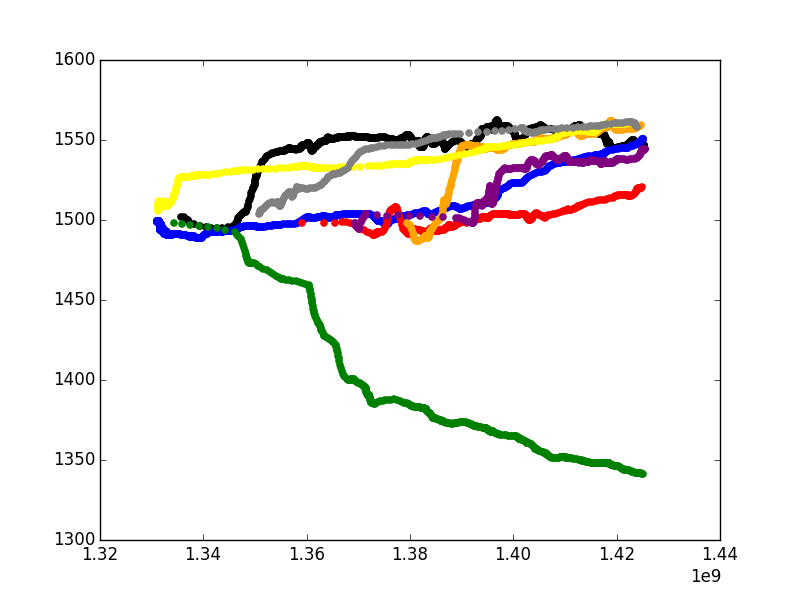
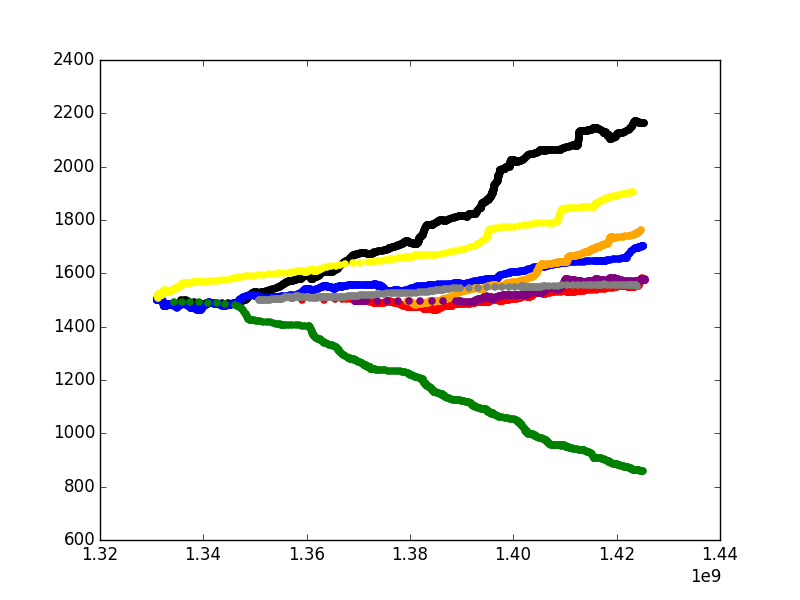
Expert CAU and ELO working; nonexperts still have edge cases that fail

diff --git a/plotting.py b/plotting.py
@@ -3,18 +3,16 @@
 from __future__ import division
 from collections import Counter
 from data_graph import *
-import psycopg2
-import matplotlib.pyplot as plt
-import numpy as np	
-from dateutil.parser import parse
 
-import elo
-import cau
-import time
+import matplotlib.pyplot as plt
+import search_utilities
+import metrics;
+import time;
+import cau;
 
 def plot_elo(cur, conn, user_id, color):
 	# Fetch elo data for the given user.
-	history = elo.elo_history(cur, conn, user_id, parse('2010-1-1'))
+	history = elo.elo_history(cur, conn, user_id)
 	x = []
 	y = []
 
@@ -64,6 +62,42 @@ def plot_cau(cur, conn, user_id, color):
 	# Plot.
 	plt.scatter(x, y, color=color)
 
+def plot_avg_auth(cur, user_ids, color, filename = "output/avg_auth.png"):
+	avg_auth = [0] * len(metrics.percentiles)
+	for user_id in user_ids:
+		user_auth = metrics.auth_for_user(cur, user_id)
+		avg_auth = [sum(x) for x in zip(avg_auth, user_auth)]
+	avg_auth = [total / len(metrics.percentiles) for total in avg_auth]
+	plt.scatter(metrics.percentiles, avg_auth, color = color, label = "Auth")
+	plt.savefig(filename)
+
+def plot_avg_pagerank(cur, user_ids, color, filename = "output/avg_pagerank.png"):
+	avg_rank = [0] * len(metrics.percentiles)
+	for user_id in user_ids:
+		user_rank = metrics.pagerank_for_user(cur, user_id)
+		avg_rank = [sum(x) for x in zip(avg_rank, user_rank)]
+	avg_rank = [total / len(metrics.percentiles) for total in avg_rank]
+	plt.scatter(metrics.percentiles, avg_rank, color = color, label = "PageRank")
+	plt.savefig(filename)
+
+def plot_avg_elo(cur, conn, user_ids, color, filename = "output/avg_elo.png"):
+	avg_elo = [0] * len(metrics.percentiles)
+	for user_id in user_ids:
+ 		user_elo = metrics.elo_for_user(cur, conn, user_id)
+ 		avg_elo = [sum(x) for x in zip(avg_elo, user_elo)]
+ 	avg_elo = [total / len(metrics.percentiles) for total in avg_elo]
+	plt.scatter(metrics.percentiles, avg_elo, color = color, label = "ELO")
+	plt.savefig(filename)
+
+def plot_avg_cau(cur, conn, user_ids, color, filename = "output/avg_cau.png"):
+	avg_cau = [0] * len(metrics.percentiles)
+	for user_id in user_ids:
+ 		user_cau = metrics.cau_for_user(cur, conn, user_id)
+ 		avg_cau = [sum(x) for x in zip(avg_cau, user_cau)]
+ 	avg_cau = [total / len(metrics.percentiles) for total in avg_cau]
+	plt.scatter(metrics.percentiles, avg_cau, color = color, label = "CAU")	
+	plt.savefig(filename)
+
 def plot_distributions():
 	questions = Counter({0: 17663, 1: 3215, 2: 703, 3: 241, 4: 132, 5: 83, 6: 44, 7: 40, 8: 26, 9: 18, 10: 17, 11: 14, 12: 8, 13: 6, 16: 6, 18: 5, 22: 5, 15: 4, 19: 4, 14: 3, 20: 3, 29: 3, 17: 2, 23: 2, 24: 2, 26: 2, 31: 2, 21: 1, 25: 1, 27: 1, 30: 1, 34: 1, 40: 1, 41: 1, 46: 1, 50: 1, 79: 1})
 	plt.xscale('log')
@@ -78,13 +112,45 @@ def plot_distributions():
 	plt.savefig("output/answers_distribution.png")
 
 def main(args):
-	# Plot cau graph for top 8 users by post count.
 	conn, cur = connect("Ben-han", "Ben-han")
-	user_ids = [683, 98, 755, 9550, 39, 699, 8321, 4287]
-	colors = ['black', 'blue', 'red', 'orange', 'yellow', 'green', 'purple', 'gray']
-	for i in range(0, len(user_ids)):
-		plot_elo(cur, conn, user_ids[i], colors[i])
-	plt.savefig("output/elo.png")
+	experts = search_utilities.get_experts()
+	nonexperts = search_utilities.get_nonexperts()
+	
+	print metrics.percentile_normalization(1280, cur)
+
+	# Plot cau graph for top 8 users by post count.
+	# conn, cur = connect("Ben-han", "Ben-han")
+	# user_ids = [683, 98, 755, 9550, 39, 699, 8321, 4287]
+	# colors = ['black', 'blue', 'red', 'orange', 'yellow', 'green', 'purple', 'gray']
+	# for i in range(0, len(user_ids)):
+	# 	plot_cau(cur, conn, user_ids[i], colors[i])
+	# plt.savefig("output/elo.png")
+	# plt.show()
+
+	# Expert plots
+	# print "Plotting average expert Auth"
+	# plot_avg_auth(cur, experts, 'blue', "output/expert_auth.png")
+	# print "Plotting average expert PageRank"
+	# plot_avg_pagerank(cur, experts, 'green', "output/expert_pagerank.png")
+	print "Plotting average expert ELO"
+	plot_avg_elo(cur, conn, experts, 'red', "output/expert_elo.png")
+	print "Plotting average expert Cau"
+	plot_avg_cau(cur, conn, experts, 'purple', "output/expert_cau.png")
+	plt.legend(loc = 4)
+	plt.savefig("output/expert_combined.png")
+	plt.show()
+
+	# Non-expert plots
+	#print "Plotting average nonexpert Auth"
+	#plot_avg_auth(cur, nonexperts, 'blue', "output/nonexpert_auth.png")
+	#print "Plotting average nonexpert PageRank"
+	#plot_avg_pagerank(cur, nonexperts, 'green', "output/nonexpert_pagerank.png")
+	print "Plotting average nonexpert ELO"
+	plot_avg_elo(cur, conn, nonexperts, 'red', "output/nonexpert_elo.png")
+	print "Plotting average nonexpert Cau"
+	plot_avg_cau(cur, conn, nonexperts, 'purple', "output/nonexpert_cau.png")
+	plt.legend(loc = 4)
+	plt.savefig("output/nonexpert_combined.png")
 	plt.show()
 
 if __name__ == '__main__':

diff --git a/metrics.py b/metrics.py
@@ -6,9 +6,13 @@ import psycopg2
 import matplotlib.pyplot as plt
 import numpy as np
 import graph2
+import elo
+import cau
 
 DB_NAME = "stackexchangedb"
 DB_USER = "postgres"
+
+percentiles = [i*0.1 for i in range(0, 11)]
 
 def connect(db=DB_NAME, user=DB_USER):
     """Connect to the specified Postgres database as the specified user."""
@@ -31,7 +35,6 @@ def get_start_time(userID, cur):
 
 def percentile_normalization(userID, cur):
     """returns a vector of end times for percentiles 0, 10, 20,...100. This end time should be used inclusively"""
-    percentiles = [i*0.1 for i in range(0, 11)]
     times = []
     query1 = "select creation_date from post where owner_user_id = %(id)s and (post_type_id = 1 or post_type_id = 2) order by creation_date"
     cur.execute(query1, {'id': userID})
@@ -58,6 +61,12 @@ def total_answers(userID, cur):
         result.append(total_answers_helper(cur, start_time, time, userID))
     return result
 
+def get_cau_at_time(cur, conn, userID, time):
+    return cau.cau(cur, conn, userID, time)
+
+def get_elo_at_time(cur, conn, userID, time):
+    return elo.elo(cur, conn, userID, time)
+
 def get_pagerank_at_time(cur, userID, time):
     graph = graph2.build_graph_before(cur, time)
     ranks = graph2.pagerank(graph)
@@ -67,6 +76,14 @@ def get_auth_at_time(cur, userID, time):
     graph = graph2.build_graph_before(cur, time)
     ranks = graph2.hits(graph)
     return ranks[userID][1]
+
+def cau_for_user(cur, conn, userID):
+    times = percentile_normalization(userID, cur)
+    return [get_cau_at_time(cur, conn, userID, t) for t in times]
+
+def elo_for_user(cur, conn, userID):
+    times = percentile_normalization(userID, cur)
+    return [get_elo_at_time(cur, conn, userID, t) for t in times]
 
 def pagerank_for_user(cur, userID):
     times = percentile_normalization(userID, cur)

diff --git a/elo.py b/elo.py
@@ -14,7 +14,7 @@ def elo(cursor, conn, user_id, end_date = None):
     :param timebin: end_date for ELO calculation.
     """
     if not _elo_table_exists(cursor):
-        _create_elo_table(cursor, conn, end_date)
+        _create_elo_table(cursor, conn)
     return _elo(cursor, user_id, end_date)
 
 def elo_history(cursor, conn, user_id, end_date = None):
@@ -26,7 +26,7 @@ def elo_history(cursor, conn, user_id, end_date = None):
     :param user_id: ID of user you want the ELO score for
     """
     if not _elo_table_exists(cursor):
-        _create_elo_table(cursor, conn, end_date)
+        _create_elo_table(cursor, conn)
     return _elo_history(cursor, user_id)
 
 ####################################################
@@ -203,7 +203,7 @@ def _elo(cursor, user_id, end_date = None):
         query = """SELECT rating
                    FROM elo
                    WHERE user_id = %(user_id)s
-                   AND time < %(date)s
+                   AND time <= %(date)s
                    ORDER BY time DESC
                    LIMIT 1;
                 """

diff --git a/cau.py b/cau.py
@@ -173,7 +173,7 @@ def _cau(cursor, user_id, end_date = None):
         query = """SELECT rating
                    FROM cau
                    WHERE user_id = %(user_id)s
-                   AND time < %(date)s
+                   AND time <= %(date)s
                    ORDER BY time DESC
                    LIMIT 1;
                 """

diff --git a/sample_nonexperts.py b/sample_nonexperts.py
@@ -3,8 +3,8 @@
 import psycopg2
 import numpy as np
 
-DB_NAME = "stackexchangedb"
-DB_USER = "postgres"
+DB_NAME = "Ben-han"
+DB_USER = "Ben-han"
 
 def connect(db=DB_NAME, user=DB_USER):
     """Connect to the specified Postgres database as the specified user."""
